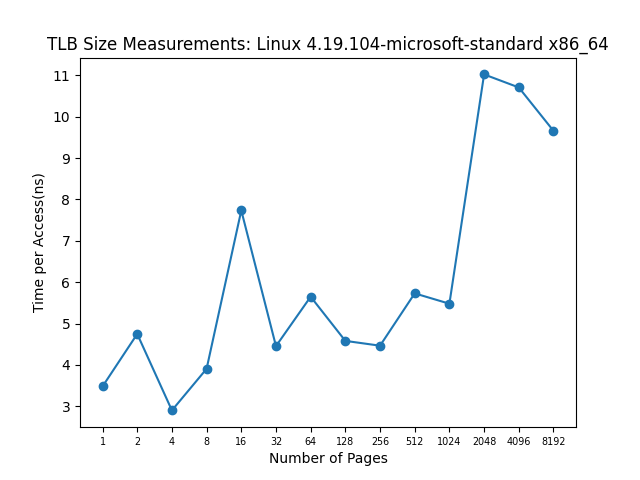
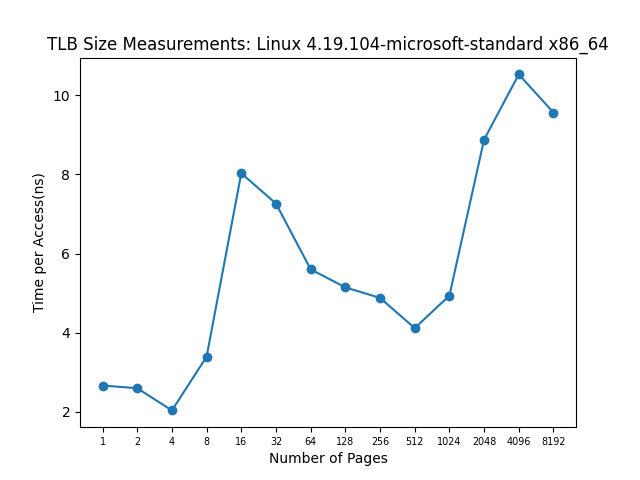
added stuff for ch 20

diff --git a/homework/20-small-tables/pmt.py b/homework/20-small-tables/pmt.py
@@ -1,0 +1,281 @@
+#! /usr/bin/env python3
+
+from __future__ import print_function
+import sys
+from optparse import OptionParser
+import random
+import math
+
+# to make Python2 and Python3 act the same -- how dumb
+
+
+def random_seed(seed):
+    try:
+        random.seed(seed, version=1)
+    except:
+        random.seed(seed)
+    return
+
+
+def convert(size):
+    length = len(size)
+    lastchar = size[length-1]
+    if (lastchar == 'k') or (lastchar == 'K'):
+        m = 1024
+        nsize = int(size[0:length-1]) * m
+    elif (lastchar == 'm') or (lastchar == 'M'):
+        m = 1024*1024
+        nsize = int(size[0:length-1]) * m
+    elif (lastchar == 'g') or (lastchar == 'G'):
+        m = 1024*1024*1024
+        nsize = int(size[0:length-1]) * m
+    else:
+        nsize = int(size)
+    return nsize
+
+
+def roundup(size):
+    value = 1.0
+    while value < size:
+        value = value * 2.0
+    return value
+
+
+class OS:
+    def __init__(self):
+        # 4k phys memory (128 pages)
+        self.pageSize = 32
+        self.physPages = 128
+        self.physMem = self.pageSize * self.physPages
+        self.vaPages = 1024
+        self.vaSize = self.pageSize * self.vaPages
+        self.pteSize = 1
+        self.pageBits = 5  # log of page size
+
+        # os tracks
+        self.usedPages = []
+        self.usedPagesCount = 0
+        self.maxPageCount = int(self.physMem / self.pageSize)
+
+        # no pages used (yet)
+        for i in range(0, self.maxPageCount):
+            self.usedPages.append(0)
+
+        # set contents of memory to 0, too
+        self.memory = []
+        for i in range(0, self.physMem):
+            self.memory.append(0)
+
+        # associative array of pdbr's (indexed by PID)
+        self.pdbr = {}
+
+        # mask is 11111 00000 00000 --> 0111 1100 0000 0000
+        self.PDE_MASK = 0x7c00
+        self.PDE_SHIFT = 10
+
+        # 00000 11111 00000 -> 000 0011 1110 0000
+        self.PTE_MASK = 0x03e0
+        self.PTE_SHIFT = 5
+
+        self.VPN_MASK = self.PDE_MASK | self.PTE_MASK
+        self.VPN_SHIFT = self.PTE_SHIFT
+
+        # grabs the last five bits of a virtual address
+        self.OFFSET_MASK = 0x1f
+
+    def findFree(self):
+        assert (self.usedPagesCount < self.maxPageCount)
+        look = int(random.random() * self.maxPageCount)
+        while self.usedPages[look] == 1:
+            look = int(random.random() * self.maxPageCount)
+        self.usedPagesCount = self.usedPagesCount + 1
+        self.usedPages[look] = 1
+        return look
+
+    def initPageDir(self, whichPage):
+        whichByte = whichPage << self.pageBits
+        for i in range(whichByte, whichByte + self.pageSize):
+            self.memory[i] = 0x7f
+
+    def initPageTablePage(self, whichPage):
+        self.initPageDir(whichPage)
+
+    def getPageTableEntry(self, virtualAddr, ptePage, printStuff):
+        pteBits = (virtualAddr & self.PTE_MASK) >> self.PTE_SHIFT
+        pteAddr = (ptePage << self.pageBits) | pteBits
+        pte = self.memory[pteAddr]
+        valid = (pte & 0x80) >> 7
+        pfn = (pte & 0x7f)
+        if printStuff == True:
+            print('    --> pte index:0x%x [decimal %d] pte contents:0x%x (valid %d, pfn 0x%02x [decimal %d])' % (
+                pteBits, pteBits, pte, valid, pfn, pfn))
+        return (valid, pfn, pteAddr)
+
+    def getPageDirEntry(self, pid, virtualAddr, printStuff):
+        pageDir = self.pdbr[pid]
+        pdeBits = (virtualAddr & self.PDE_MASK) >> self.PDE_SHIFT
+        pdeAddr = (pageDir << self.pageBits) | pdeBits
+        pde = self.memory[pdeAddr]
+        valid = (pde & 0x80) >> 7
+        ptPtr = (pde & 0x7f)
+        if printStuff == True:
+            print('  --> pde index:0x%x [decimal %d] pde contents:0x%x (valid %d, pfn 0x%02x [decimal %d])' % (
+                pdeBits, pdeBits, pde, valid, ptPtr, ptPtr))
+        return (valid, ptPtr, pdeAddr)
+
+    def setPageTableEntry(self, pteAddr, physicalPage):
+        self.memory[pteAddr] = 0x80 | physicalPage
+
+    def setPageDirEntry(self, pdeAddr, physicalPage):
+        self.memory[pdeAddr] = 0x80 | physicalPage
+
+    def allocVirtualPage(self, pid, virtualPage, physicalPage):
+        # make it into a virtual address, as everything uses this (and not VPN)
+        virtualAddr = virtualPage << self.pageBits
+        (valid, ptPtr, pdeAddr) = self.getPageDirEntry(pid, virtualAddr, False)
+        if valid == 0:
+            # must allocate a page of the page table now, and have the PD point to it
+            assert (ptPtr == 127)
+            ptePage = self.findFree()
+            self.setPageDirEntry(pdeAddr, ptePage)
+            self.initPageTablePage(ptePage)
+        else:
+            # otherwise, just extract page number of page table page
+            ptePage = ptPtr
+        # now, look up page table entry too, and mark it valid and fill in translation
+        (valid, pfn, pteAddr) = self.getPageTableEntry(
+            virtualAddr, ptePage, False)
+        assert (valid == 0)
+        assert (pfn == 127)
+        self.setPageTableEntry(pteAddr, physicalPage)
+
+    # -2 -> PTE fault, -1 means PDE fault
+    def translate(self, pid, virtualAddr):
+        (valid, ptPtr, pdeAddr) = self.getPageDirEntry(pid, virtualAddr, True)
+        if valid == 1:
+            ptePage = ptPtr
+            (valid, pfn, pteAddr) = self.getPageTableEntry(
+                virtualAddr, ptePage, True)
+            if valid == 1:
+                offset = (virtualAddr & self.OFFSET_MASK)
+                paddr = (pfn << self.pageBits) | offset
+                # print('     --> pfn: %02x  offset: %x' % (pfn, offset))
+                return paddr
+            else:
+                return -2
+        return -1
+
+    def fillPage(self, whichPage):
+        for j in range(0, self.pageSize):
+            self.memory[(whichPage * self.pageSize) +
+                        j] = int(random.random() * 31)
+
+    def procAlloc(self, pid, numPages):
+        # need a PDBR: find one somewhere in memory
+        pageDir = self.findFree()
+        # print('**ALLOCATE** page dir', pageDir)
+        self.pdbr[pid] = pageDir
+        self.initPageDir(pageDir)
+
+        used = {}
+        for vp in range(0, self.vaPages):
+            used[vp] = 0
+        allocatedVPs = []
+
+        for vp in range(0, numPages):
+            vp = int(random.random() * self.vaPages)
+            while used[vp] == 1:
+                vp = int(random.random() * self.vaPages)
+            assert (used[vp] == 0)
+            used[vp] = 1
+            allocatedVPs.append(vp)
+            pp = self.findFree()
+            # print('**ALLOCATE** page', pp)
+            # print('  trying to map vp:%08x to pp:%08x' % (vp, pp))
+            self.allocVirtualPage(pid, vp, pp)
+            self.fillPage(pp)
+        return allocatedVPs
+
+    def dumpPage(self, whichPage):
+        i = whichPage
+        for j in range(0, self.pageSize):
+            print(self.memory[(i * self.pageSize) + j], end='')
+        print('')
+
+    def memoryDump(self):
+        for i in range(0, int(self.physMem / self.pageSize)):
+            print('page %3d:' % i, end='')
+            for j in range(0, self.pageSize):
+                print('%02x' % self.memory[(i * self.pageSize) + j], end='')
+            print('')
+
+    def getPDBR(self, pid):
+        return self.pdbr[pid]
+
+    def getValue(self, addr):
+        return self.memory[addr]
+
+# allocate some processes in memory
+# allocate some multi-level page tables in memory
+# make a bit of a mystery:
+# can examine PDBR (PFN of current proc's page directory)
+# can examine contents of any page
+# fill pages with values too
+# ask: when given
+#   LOAD VA, R1
+# what will final value will be loaded into R1?
+
+
+#
+# main program
+#
+parser = OptionParser()
+parser.add_option('-s', '--seed', default=0, help='the random seed',
+                  action='store', type='int', dest='seed')
+parser.add_option('-a', '--allocated', default=64, help='number of virtual pages allocated',
+                  action='store', type='int', dest='allocated')
+parser.add_option('-n', '--addresses', default=10, help='number of virtual addresses to generate',
+                  action='store', type='int', dest='num')
+parser.add_option('-c', '--solve', help='compute answers for me',
+                  action='store_true', default=False, dest='solve')
+
+
+(options, args) = parser.parse_args()
+
+print('ARG seed', options.seed)
+print('ARG allocated',  options.allocated)
+print('ARG num',  options.num)
+print('')
+
+random_seed(options.seed)
+
+# do the work now
+os = OS()
+used = os.procAlloc(1, options.allocated)
+
+os.memoryDump()
+
+print('\nPDBR:', os.getPDBR(1),
+      ' (decimal) [This means the page directory is held in this page]\n')
+
+for i in range(0, options.num):
+    if (random.random() * 100) > 50.0 or i >= len(used):
+        vaddr = int(random.random() * 1024 * 32)
+    else:
+        vaddr = (used[i] << 5) | int(random.random() * 32)
+    if options.solve == True:
+        print('Virtual Address %04x:' % vaddr)
+        r = os.translate(1, vaddr)
+        if r > -1:
+            print('      --> Translates to Physical Address 0x%03x --> Value: %02x' %
+                  (r, os.getValue(r)))
+        elif r == -1:
+            print('      --> Fault (page directory entry not valid)')
+        else:
+            print('      --> Fault (page table entry not valid)')
+    else:
+        print('Virtual Address %04x: Translates To What Physical Address (And Fetches what Value)? Or Fault?' % vaddr)
+
+print('')
+
+exit(0)

diff --git a/homework/19-translation-lookaside-buffer/runner.py b/homework/19-translation-lookaside-buffer/runner.py
@@ -4,7 +4,7 @@ import numpy as np
 import subprocess
 
 POWER = 14
-TRIALS = 10000
+TRIALS = 100000
 
 data = []
 

diff --git a/homework/20-small-tables/README.md b/homework/20-small-tables/README.md
@@ -1,0 +1,69 @@
+# 20 - Paging: Smaller Tables
+- page tables without any optimizations are too large and consume too much memory
+- simple solution: use bigger tables, but this leads to waste within each page (**internal fragmentation**, as waste is **internal** to the unit of allocation)
+
+## Hybrid: Paging and Segments
+- have a page table for each logical segment instead of the whole address space
+- base (from **base and bounds/limits**) points to the physical address of the page table (rather than where in physical memory address space begins)
+
+### cost of paging and segments
+- segmentation is not as flexible as possible as it assumes a certain usage pattern of the address space
+- also causes external fragmentation to occur
+
+## Multi-level Page Tables
+- turns the linear page table into something like a tree
+- chop up page table into page-sized units, then, if entire page-table entries (PTE) is invalid, don't allocate that page
+- introduces a **page directory** which holds whether page table is valid and where it is in physical memory
+
+![multi-level page table](multi-level-page-table.png)
+
+- **page directory** contains one entry per page of the page table (**page directory entries (PDE)**)
+- a **page directory entry** has a **valid bit** and a **page frame number (PFN)**
+- for a large page table, it is difficult to find continguous memory, but page directory allows for level of indirection where we can put page-tables anywhere in physical memory
+- you can also have more than two levels, but you need to increase VPN size
+  - how many page table entires fit within a page, and use that as index
+
+### cost of multi-level page tables
+- time-space trade-off: less time equals more space, and vice versa -- on TLB miss, two loads from memory will be required (one for page directory, and one for page table entry (PTE))
+- adds complexity in OS or hardware handling lookup
+
+![page example](page-directory-example.png)
+
+`PDEAddr = PageDirBase + (PDIndex * sizeof(PDE))`
+
+`PTEAddr = (PDE.PFN << SHIFT) + (PTIndex * sizeof(PTE))`
+
+multi-level page table control flow
+```c
+VPN = (VirtualAddress & VPN_MASK) >> SHIFT
+(Success, TlbEntry) = TLB_Lookup(VPN)
+if (Success == True) // TLB Hit
+    if (CanAccess(TlbEntry.ProtectBits) == True)
+        Offset = VirtualAddress & OFFSET_MASK
+        PhysAddr = (TlbEntry.PFN << SHIFT) | Offset
+        Register = AccessMemory(PhysAddr)
+    else
+        RaiseException(PROTECTION_FAULT)
+else // TLB Miss
+// first, get page directory entry
+    PDIndex = (VPN & PD_MASK) >> PD_SHIFT
+    PDEAddr = PDBR + (PDIndex * sizeof(PDE))
+    PDE = AccessMemory(PDEAddr)
+    if (PDE.Valid == False)
+        RaiseException(SEGMENTATION_FAULT)
+    else
+    // PDE is valid: now fetch PTE from page table
+        PTIndex = (VPN & PT_MASK) >> PT_SHIFT
+        PTEAddr = (PDE.PFN << SHIFT) + (PTIndex * sizeof(PTE))
+        PTE = AccessMemory(PTEAddr)
+        if (PTE.Valid == False)
+            RaiseException(SEGMENTATION_FAULT)
+        else if (CanAccess(PTE.ProtectBits) == False)
+            RaiseException(PROTECTION_FAULT)
+        else
+            TLB_Insert(VPN, PTE.PFN, PTE.ProtectBits)
+            RetryInstruction()
+```
+
+## Inverted Page Tables
+- instead of having many page tables (one per process), use a single page table that has an entry for each physical page of the system

diff --git a/homework/20-small-tables/homework.md b/homework/20-small-tables/homework.md
@@ -1,0 +1,25 @@
+# Homework
+
+[pmt README](https://github.com/remzi-arpacidusseau/ostep-homework/blob/master/vm-smalltables/README.md)
+
+1. With a linear page table, you need a single register to locate the page table, assuming that hardware does the lookup upon a TLB miss. How many registers do you need to locate a two-level page table? A three-level table?
+
+    There's a single register, the page directory base register (PDBR) that points to the level-0 page directory, which contains pointers to the page table below.
+
+2. Use the simulator to perform translations given random seeds 0, 1, and 2, and check your answers using the -c flag. How many memory references are needed to perform each lookup?
+
+    page size = 32 bytes -> offset 5 (2**5 = 32)
+    virtual address space = 32 kb -> 15, VPN = 10 (15 - 10)
+    128 pages, offset 5, PFN 7 (2**7 = 128)
+
+    Virtual Address 611c: Translates To What Physical Address (And Fetches what Value)? Or Fault? 01100 00100011100
+    Virtual Address 3da8: Translates To What Physical Address (And Fetches what Value)? Or Fault?
+    Virtual Address 17f5: Translates To What Physical Address (And Fetches what Value)? Or Fault?
+    Virtual Address 7f6c: Translates To What Physical Address (And Fetches what Value)? Or Fault?
+    Virtual Address 0bad: Translates To What Physical Address (And Fetches what Value)? Or Fault?
+    Virtual Address 6d60: Translates To What Physical Address (And Fetches what Value)? Or Fault?
+    Virtual Address 2a5b: Translates To What Physical Address (And Fetches what Value)? Or Fault?
+    Virtual Address 4c5e: Translates To What Physical Address (And Fetches what Value)? Or Fault?
+    Virtual Address 2592: Translates To What Physical Address (And Fetches what Value)? Or Fault?
+    Virtual Address 3e99: Translates To What Physical Address (And Fetches what Value)? Or Fault?
+3. Given your understanding of how cache memory works, how do you think memory references to the page table will behave in the cache? Will they lead to lots of cache hits (and thus fast accesses?) Or lots of misses (and thus slow accesses)?

diff --git a/homework/18-paging/README.md b/homework/18-paging/README.md
@@ -18,7 +18,7 @@
   - 20 bit VPN implies 2^20 translations, and at 4 bytes per PTE that is 4MB for each page table, and if there are 100 processes, thats 400MB
 - they can get much larger than a small segment table or base/bounds pair
 - simplest form is a **linear page table**, which is just an array
-  - OS indexes array by virtual page number and look sup the page-table entry at that index to find the physical frame number
+  - OS indexes array by virtual page number and looks up the page-table entry at that index to find the physical frame number
 - many different bits to to dictate behavior:
   - **valid bit** - common to indicate whether the particular translation is valid
   - **protection bit** - can the page be read from, written to, or executed from
